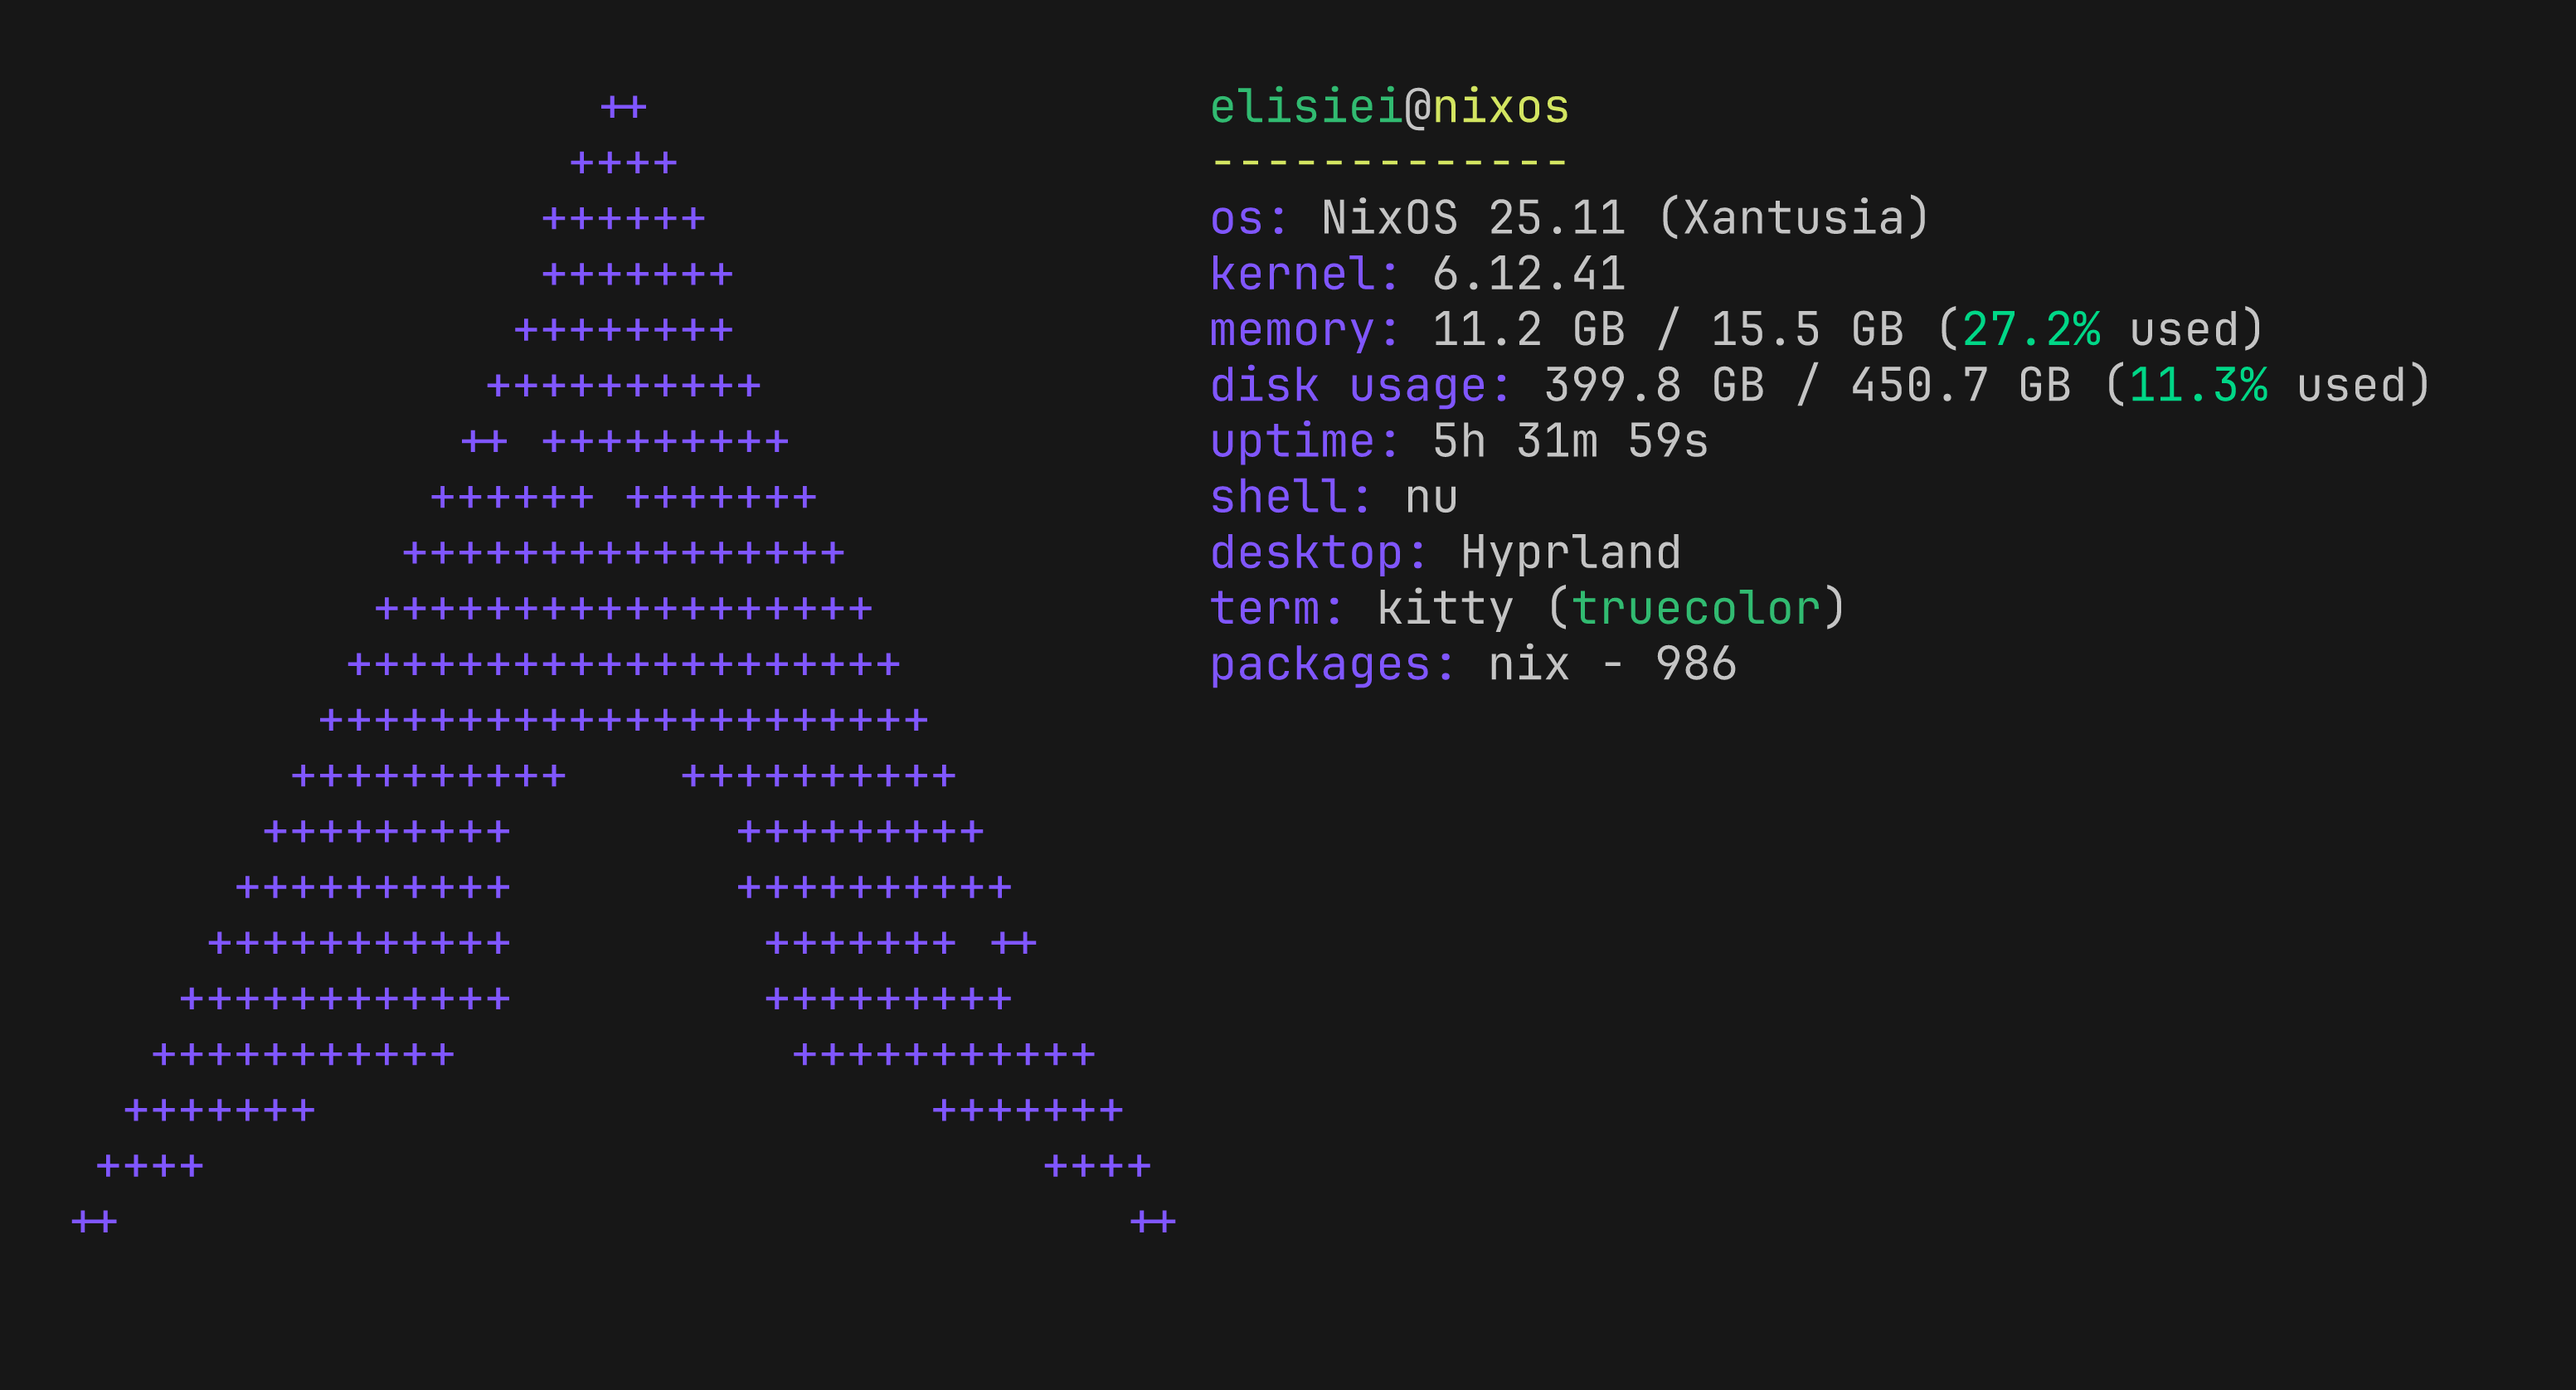
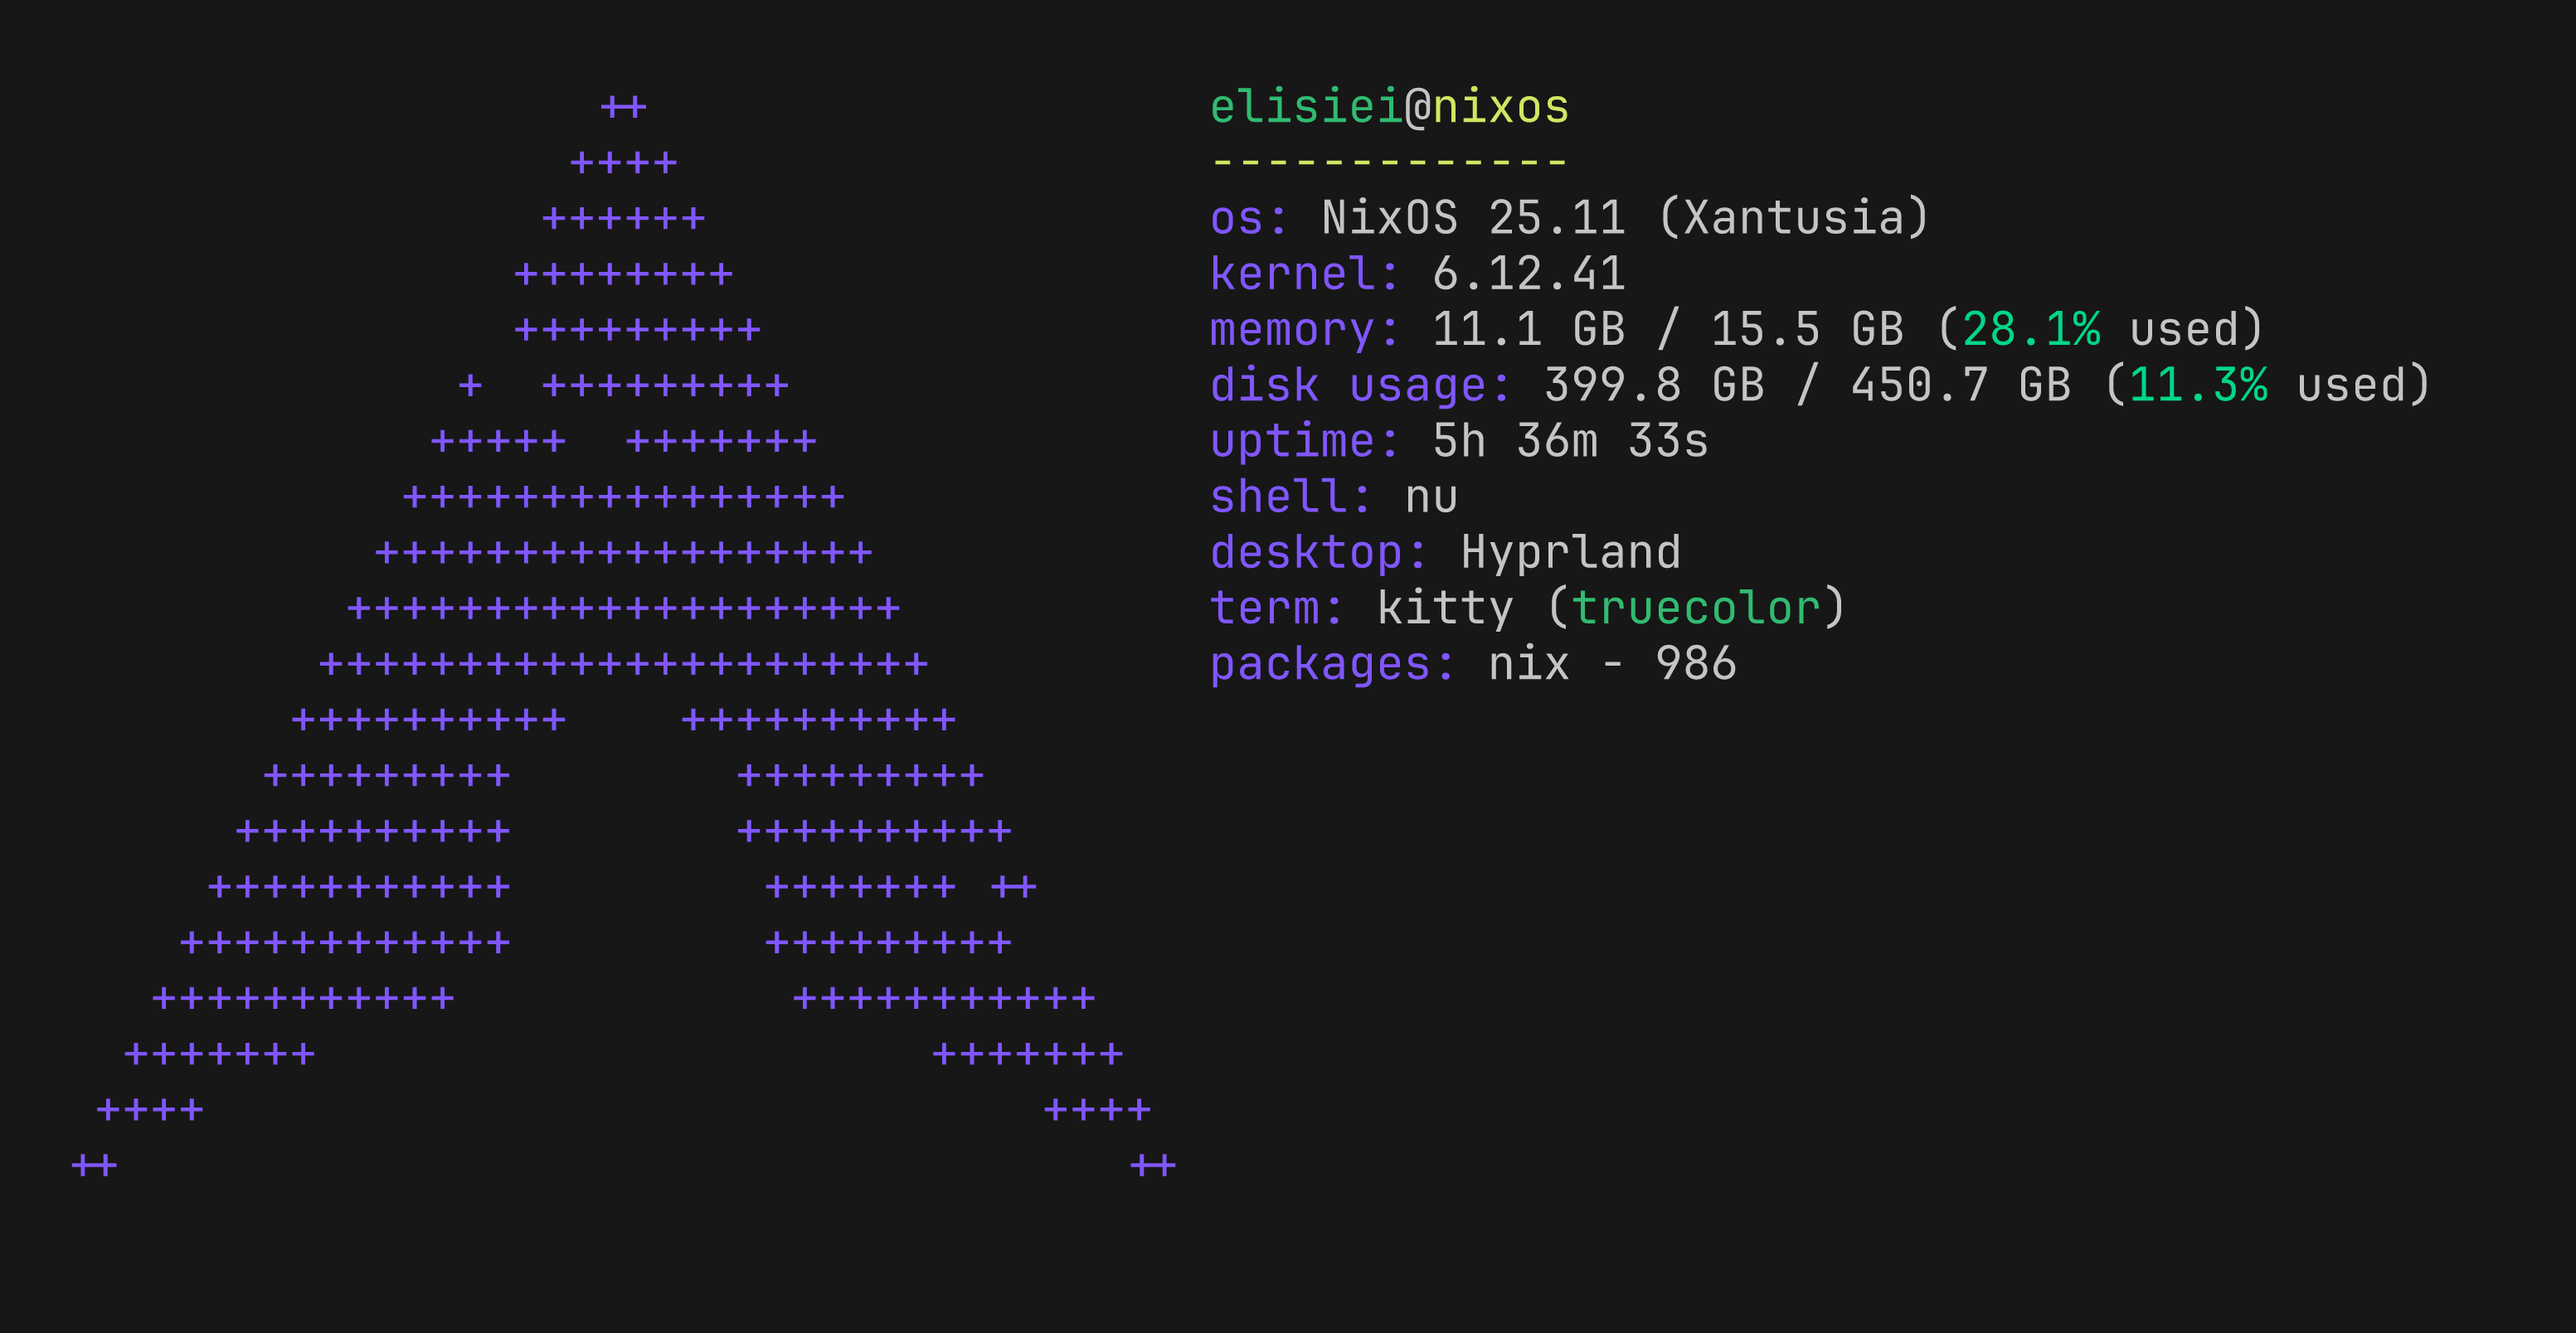
update xx

diff --git a/arts.go b/arts.go
@@ -107,11 +107,10 @@ var Arts []Art = []Art{
 			color.Colorize("                   ++                   ", color.Blue),
 			color.Colorize("                  ++++                  ", color.Blue),
 			color.Colorize("                 ++++++                 ", color.Blue),
-			color.Colorize("                 +++++++                ", color.Blue),
 			color.Colorize("                ++++++++                ", color.Blue),
-			color.Colorize("               ++++++++++               ", color.Blue),
-			color.Colorize("              ++ +++++++++              ", color.Blue),
-			color.Colorize("             ++++++ +++++++             ", color.Blue),
+			color.Colorize("                +++++++++               ", color.Blue),
+			color.Colorize("              +  +++++++++              ", color.Blue),
+			color.Colorize("             +++++  +++++++             ", color.Blue),
 			color.Colorize("            ++++++++++++++++            ", color.Blue),
 			color.Colorize("           ++++++++++++++++++           ", color.Blue),
 			color.Colorize("          ++++++++++++++++++++          ", color.Blue),
